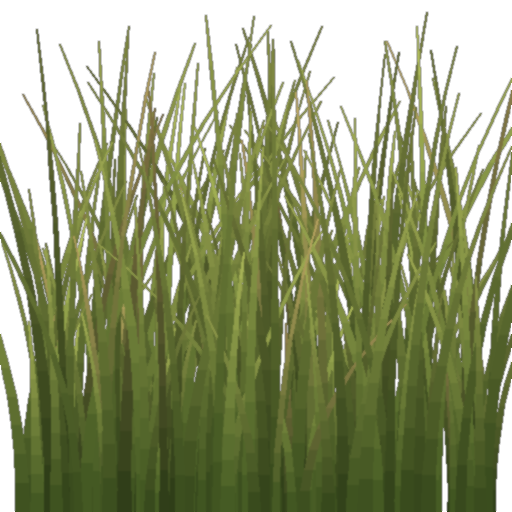
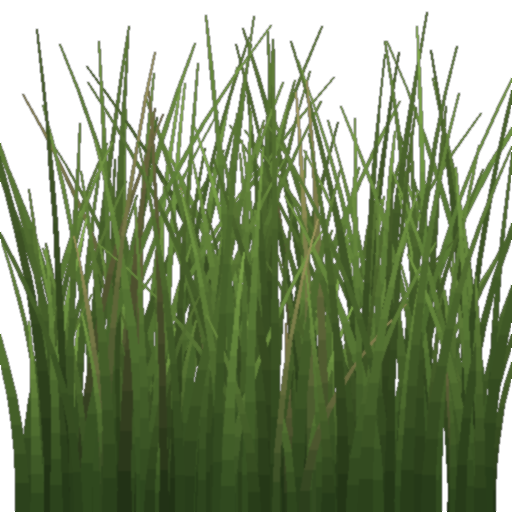
Four Froggies ffu16b: realism test fix round - less ambient + haze, filmic contrast, greener grass scans + clumps, darker rocks / reeds / lily pads / leaves, capped water fresnel, 2k sky on phones

diff --git a/unity/four-froggies/Assets/Scripts/Core/Realism.cs b/unity/four-froggies/Assets/Scripts/Core/Realism.cs
@@ -31,9 +31,9 @@ public static class Realism
     // HDRI (work/real/sky_meta.json): sun at u 0.6003, elevation 43 deg; SunAz = world azimuth we want the sun at
     // (atan2(z, x) in degrees: -135 = south-west, side-light for the shore cameras)
     const float SunU = 0.6003f, SunEl = 42.98f, SunAz = -135f;
-    const float AmbK = 0.42f;            // ambient strength (linear scale of the HDRI table)
+    const float AmbK = 0.3f;             // ambient strength (linear scale of the HDRI table)
     static readonly Color SunCol = new Color(1f, 0.92f, 0.8f);
-    static readonly Color Haze = new Color(0.74f, 0.79f, 0.84f);
+    static readonly Color Haze = new Color(0.70f, 0.77f, 0.85f);
     public static float SkyRot { get { float phiTex = (0.5f - SunU) * 360f; return Mathf.Repeat(SunAz - phiTex, 360f); } }
 
 #if UNITY_WEBGL && !UNITY_EDITOR
@@ -104,7 +104,7 @@ public static class Realism
         RenderSettings.fog = true;
         RenderSettings.fogMode = FogMode.ExponentialSquared;
         RenderSettings.fogColor = Haze;
-        RenderSettings.fogDensity = 0.0036f;
+        RenderSettings.fogDensity = 0.0026f;
         RenderSettings.reflectionIntensity = 1f;
         // ambient: integrate the HDRI table (gamma -> linear x AmbK -> gamma) into an SH probe
         probe = new SphericalHarmonicsL2();
@@ -179,7 +179,7 @@ public static class Realism
 
     static IEnumerator Load(string file, string key, bool mips, bool compress, bool clampV = false)
     {
-        string url = BaseUrl() + file + "?v=r1";
+        string url = BaseUrl() + file + "?v=r2";
         using (var rq = UnityWebRequest.Get(url))
         {
             yield return rq.SendWebRequest();
@@ -218,7 +218,7 @@ public static class Realism
     {
         float t0 = Time.realtimeSinceStartup;
         string sfx = Lite ? "_512" : "";
-        yield return Load(Lite ? "sky_1k.jpg" : "sky_2k.jpg", "sky", false, false, true);
+        yield return Load("sky_2k.jpg", "sky", false, false, true);   // 1k looked blocky in portrait
         if (sky != null && T("sky") != null)
         {
             sky.SetTexture("_MainTex", T("sky"));
@@ -302,7 +302,7 @@ public static class Realism
     static Material rockMat, barkMat;
     static void ApplyMaterials()
     {
-        rockMat = Tri("rock", new Color(0.92f, 0.9f, 0.86f), 2.2f, 0.18f, 1.2f);
+        rockMat = Tri("rock", new Color(0.56f, 0.54f, 0.5f), 2.2f, 0.16f, 1.5f);
         barkMat = Tri("bark", new Color(1f, 0.97f, 0.92f), 1.4f, 0.1f, 1.3f);
         // pond water
         var go = GameObject.Find("PondWater");
@@ -331,8 +331,12 @@ public static class Realism
                     string tn = m.HasProperty("_MainTex") && m.mainTexture != null ? m.mainTexture.name : "";
                     if (tn == "q_bark" && barkMat != null) rep = barkMat;
                     else if (tn == "q_rocks" && rockMat != null) rep = rockMat;
+                    else if (tn == "" && m.shader != null && m.shader.name == "Standard" && Near(m.color, new Color(0.35f, 0.5f, 0.2f)))
+                    { rep = new Material(m); rep.color = new Color(0.24f, 0.27f, 0.13f); }     // pond reeds
+                    else if (tn == "" && m.shader != null && m.shader.name == "Standard" && Near(m.color, new Color(0.25f, 0.55f, 0.2f)))
+                    { rep = new Material(m); rep.color = new Color(0.13f, 0.22f, 0.08f); rep.SetFloat("_Glossiness", 0.45f); }   // lily pads
                     else if ((tn == "q_leaves" || tn == "q_pine" || tn == "q_bushleaf") && m.shader != null && m.shader.name == "FF/Foliage")
-                    { rep = new Material(m); rep.color = m.color * new Color(0.8f, 0.84f, 0.7f); }
+                    { rep = new Material(m); rep.color = m.color * new Color(0.6f, 0.7f, 0.48f); }
                     swap[m] = rep;
                 }
                 if (rep != null) { ms[i] = rep; ch = true; }
@@ -341,6 +345,8 @@ public static class Realism
         }
         Debug.Log("Realism: re-skinned " + n + " renderers (bark / rock / leaves), water " + (go != null));
     }
+
+    static bool Near(Color a, Color b) { return Mathf.Abs(a.r - b.r) + Mathf.Abs(a.g - b.g) + Mathf.Abs(a.b - b.b) < 0.02f; }
 
     // ---------------- the test corner: boulders + grass clumps ----------------
     static Vector3 Shore(float aDeg, float q)
@@ -394,7 +400,7 @@ public static class Realism
         {
             var gm = new Material(Mats.FoliageBase);
             gm.mainTexture = T("clump");
-            gm.color = new Color(0.86f, 0.9f, 0.78f);
+            gm.color = new Color(0.8f, 0.86f, 0.72f);
             if (gm.HasProperty("_Cutoff")) gm.SetFloat("_Cutoff", 0.42f);
             if (gm.HasProperty("_Wind")) gm.SetFloat("_Wind", 0.07f);
             int want = Lite ? 1500 : 5200;
@@ -502,7 +508,7 @@ public static class Realism
         }
         // standing on the east bank (eye height), looking north-west across the corner of the pond
         float gy = Ranch.GY(158f, -69f);
-        pos = new Vector3(158f, gy + 1.75f, -69f); look = new Vector3(125f, gy - 0.6f, -28f);
+        pos = new Vector3(158f, gy + 1.75f, -69f); look = new Vector3(133f, gy - 0.6f, -24f);
     }
 
     // generated from work/real/sky_meta.json (16 x 8 lat-long cells, gamma RGB, sun removed; lower half = ground bounce)

diff --git a/unity/four-froggies/Assets/Scripts/Core/RealPost.cs b/unity/four-froggies/Assets/Scripts/Core/RealPost.cs
@@ -8,7 +8,7 @@ public class RealPost : MonoBehaviour
 {
     static Material mat;
     static bool tried;
-    public float bloom = 0.16f, exposure = 0.92f, saturation = 1.04f, vignette = 0.2f, aoStrength = 0.7f, aoRadius = 0.7f;
+    public float bloom = 0.16f, exposure = 0.84f, saturation = 1.0f, vignette = 0.2f, aoStrength = 0.7f, aoRadius = 0.7f;
     readonly RenderTexture[] chain = new RenderTexture[6];
     Camera cam;
 
